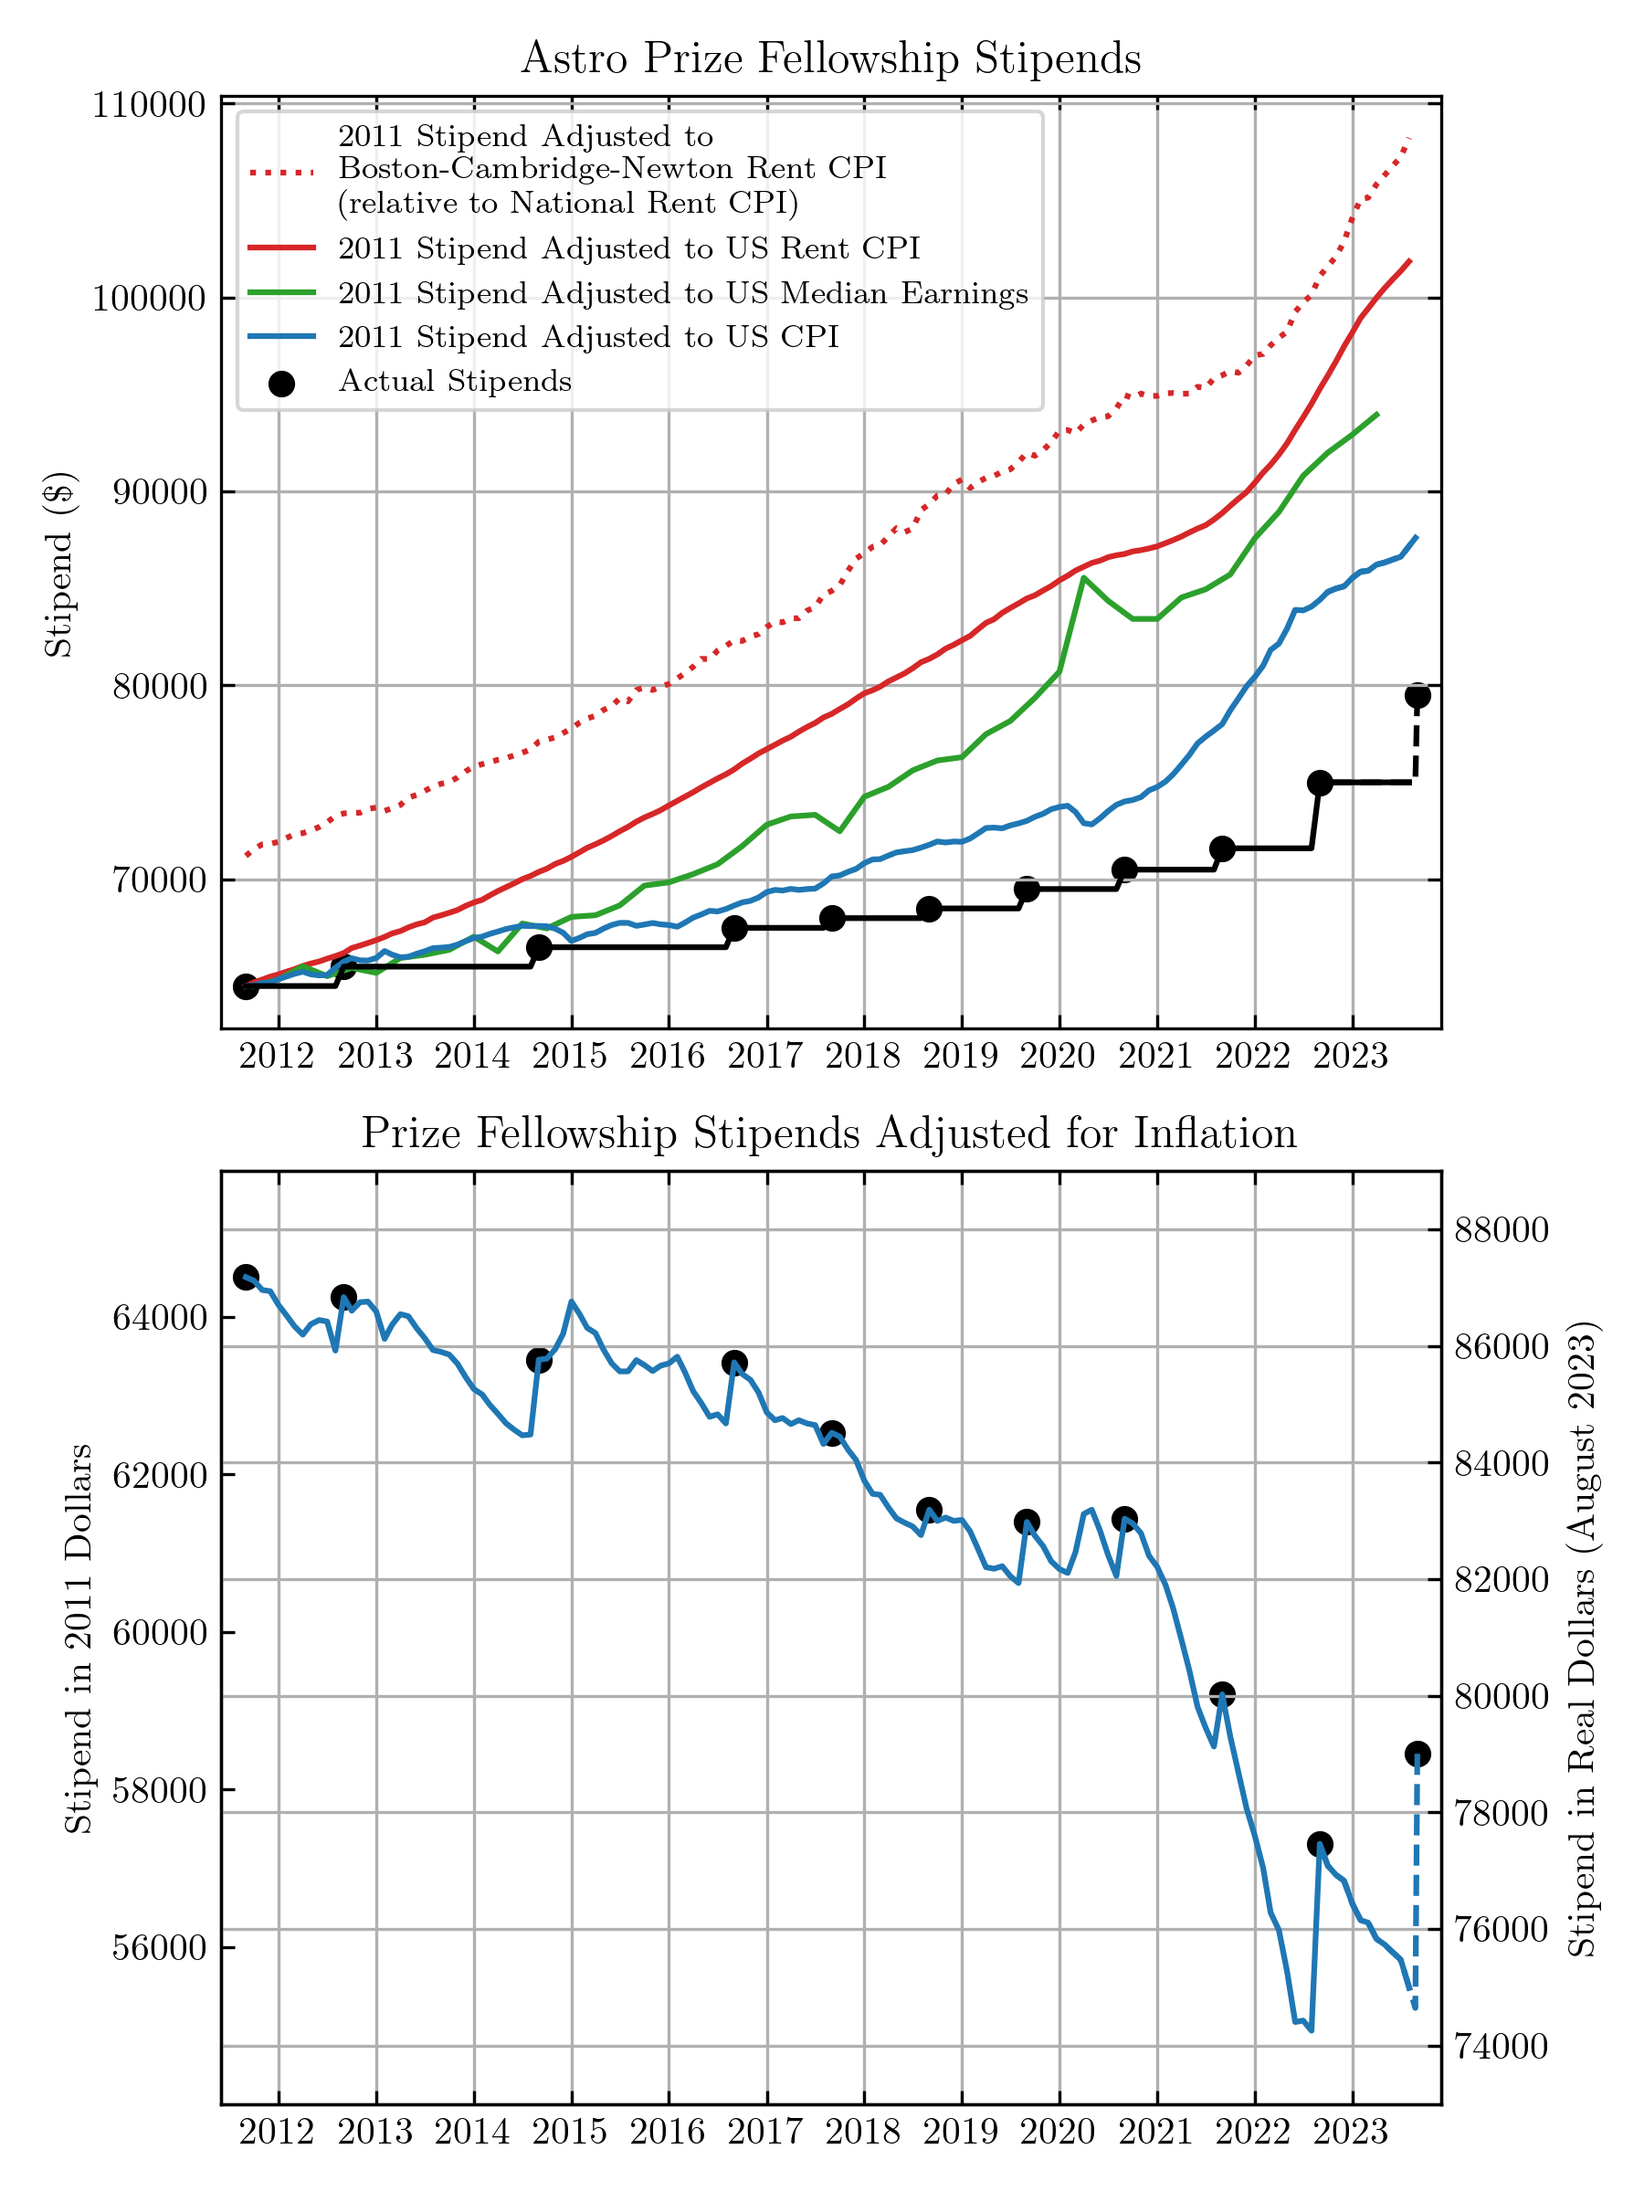
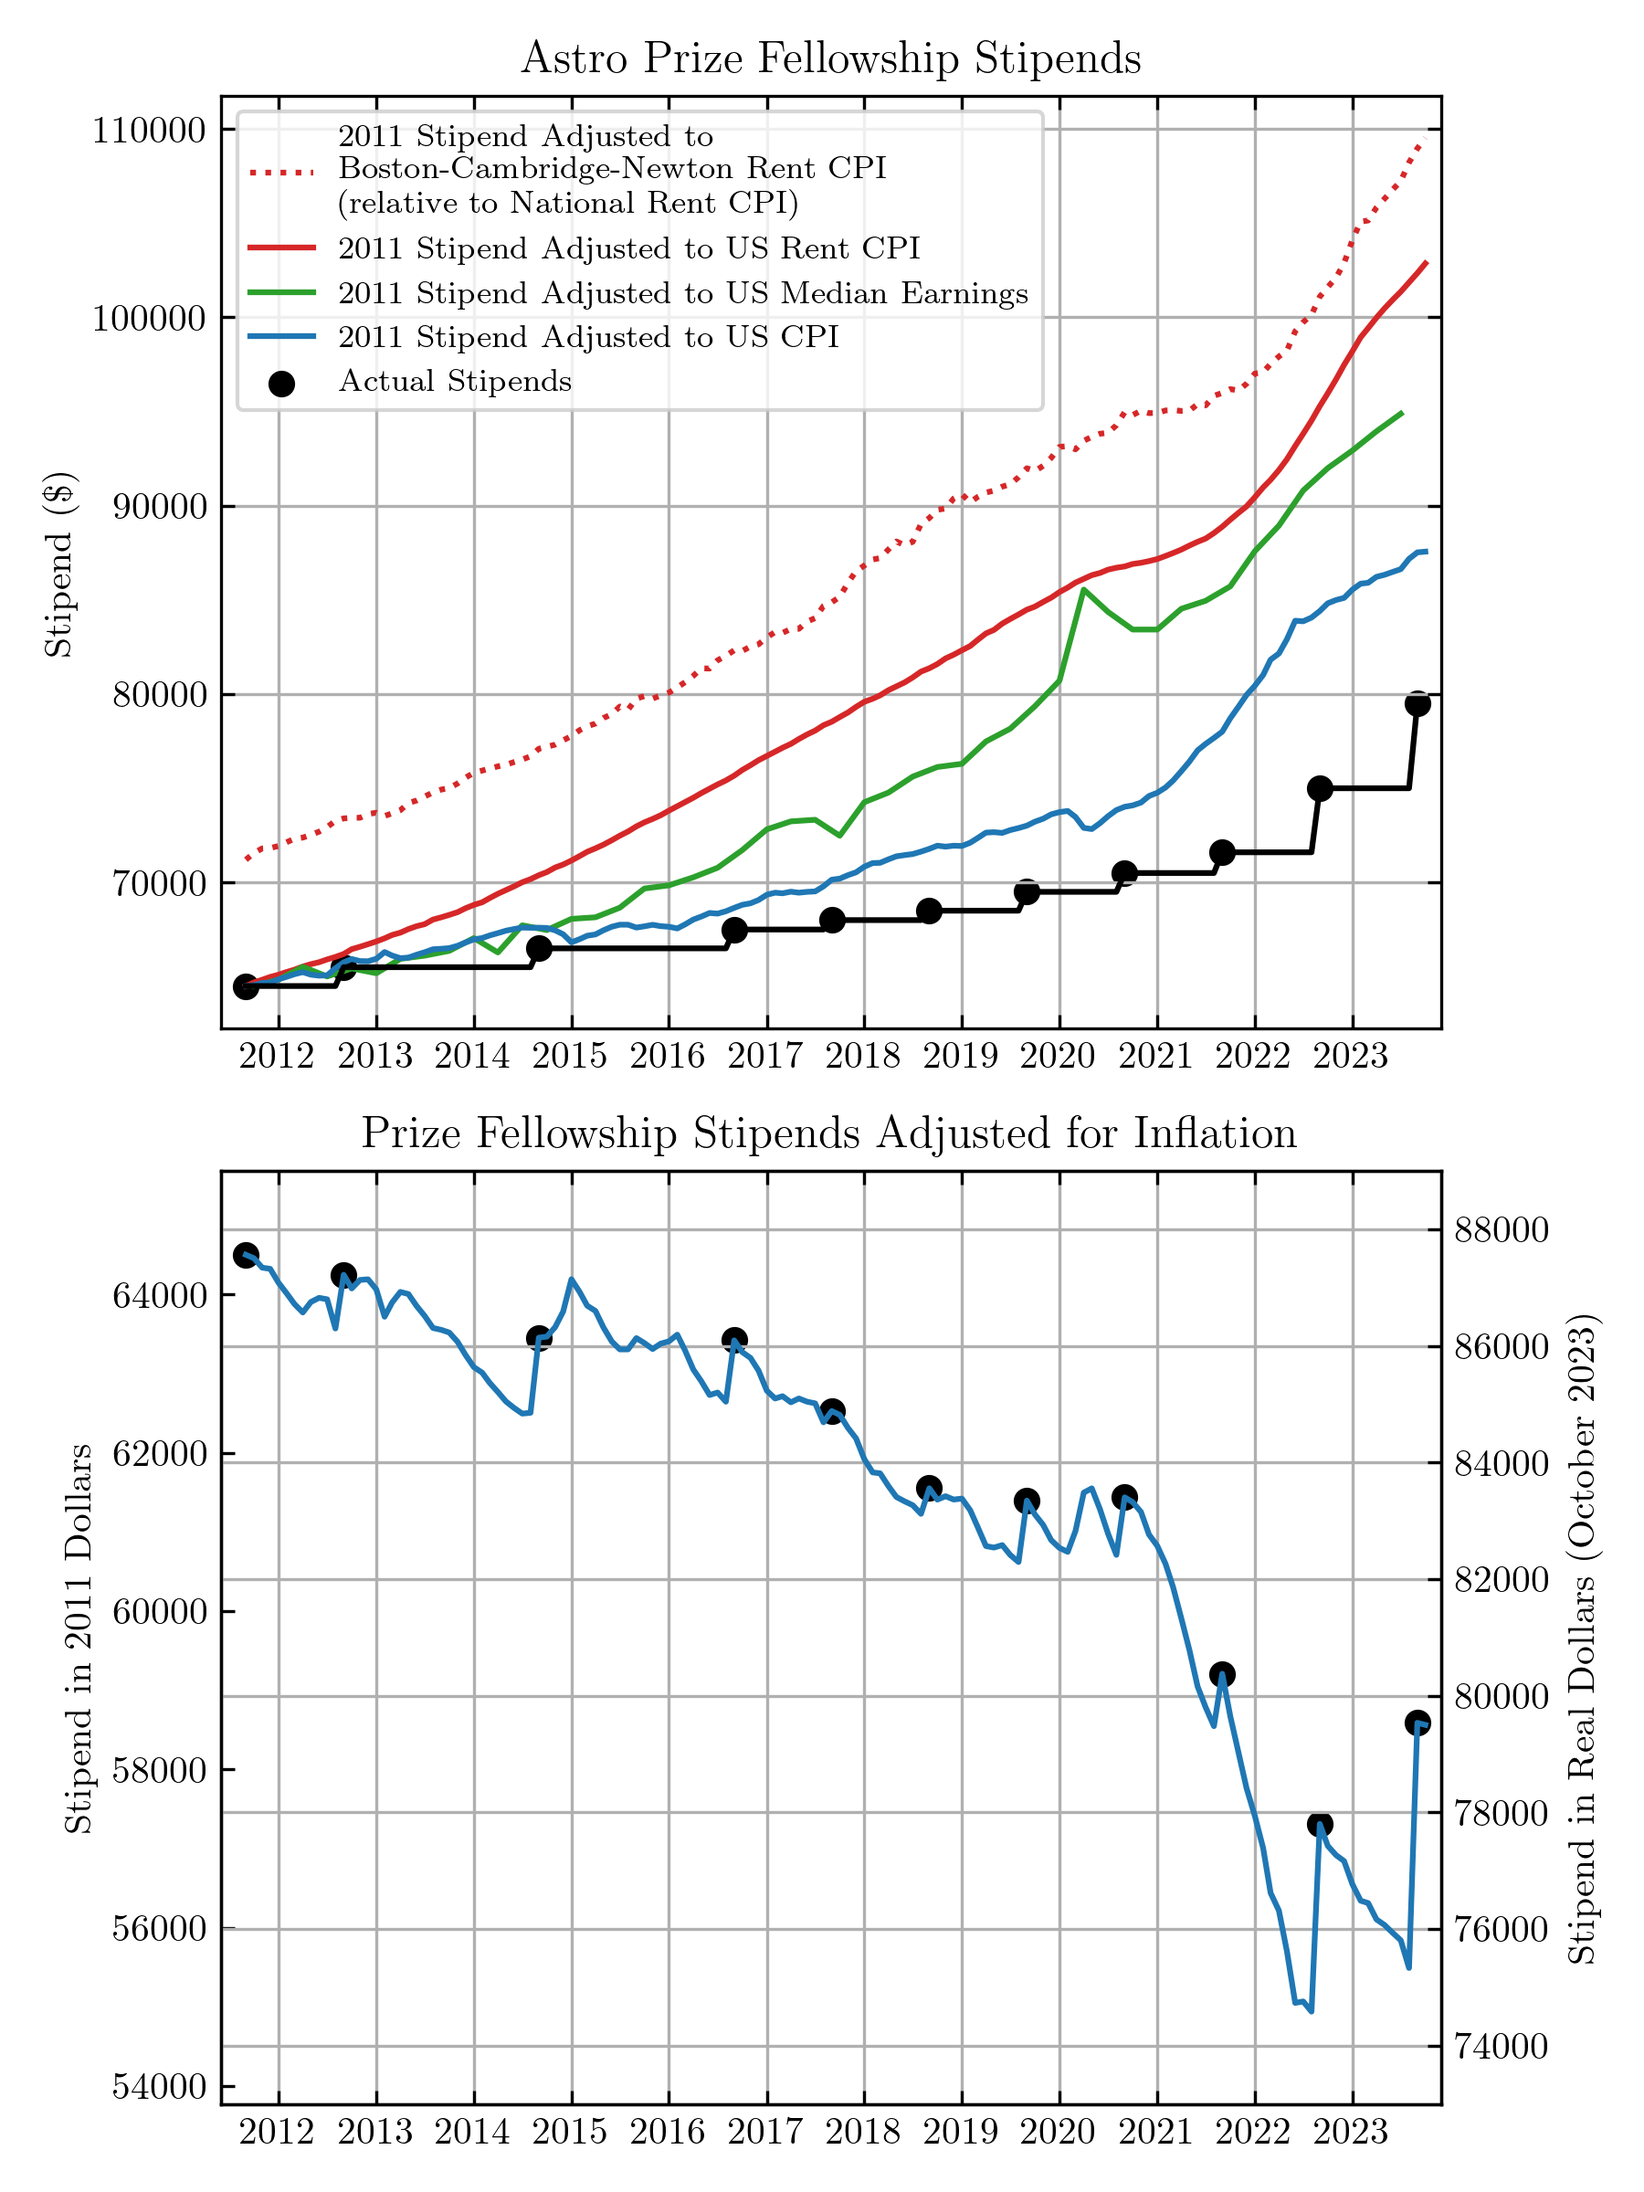
update for October inflation report

diff --git a/plot.py b/plot.py
@@ -75,8 +75,8 @@ interp_rent = interp1d(date,national_rent_cpi,fill_value='extrapolate')
 ext_start = dates.datestr2num('2022-09-01')
 ext_end = dates.datestr2num('2023-09-01')
 ext_range = np.linspace(ext_end,ext_start) # reverse order for dash linestyle
-ax[0].plot(ext_range,interp_cpi(ext_range),ls='--',c='tab:blue')
-ax[0].plot(ext_range,interp_actual(ext_range),ls='--',c='k')
+#ax[0].plot(ext_range,interp_cpi(ext_range),ls='--',c='tab:blue')
+#ax[0].plot(ext_range,interp_actual(ext_range),ls='--',c='k')
 #ax[0].plot(ext_range,interp_rent(ext_range),ls='--',c='tab:red')
 
 ax[0].set_ylabel('Stipend (\$)')
@@ -87,7 +87,7 @@ ymax = 89000
 ymin = 73000
 ax2 = ax[1].twinx()
 ax2.set_ylim(ymin,ymax)
-ax2.set_ylabel('Stipend in Real Dollars (August 2023)')
+ax2.set_ylabel('Stipend in Real Dollars (October 2023)')
 ax[1].grid(False,axis='y')
 ax[1].set_ylabel('Stipend in 2011 Dollars')
 ax[1].set_ylim(ymin*cpi[0]/cpi[-1],ymax*cpi[0]/cpi[-1])
@@ -96,7 +96,7 @@ ax2.plot(date,interp_actual(date)*cpi[-1]/cpi)
 ax2.scatter(years,interp_actual(years)*cpi[-1]/interp_cpi(years),c='k')
 
 ### add in extrapolation
-ax2.plot(ext_range,interp_actual(ext_range)*cpi[-1]/interp_cpi(ext_range),c='tab:blue',ls='--')
+#ax2.plot(ext_range,interp_actual(ext_range)*cpi[-1]/interp_cpi(ext_range),c='tab:blue',ls='--')
 
 
 # matplotlib is doing stupid things with ticks, so set them manually
